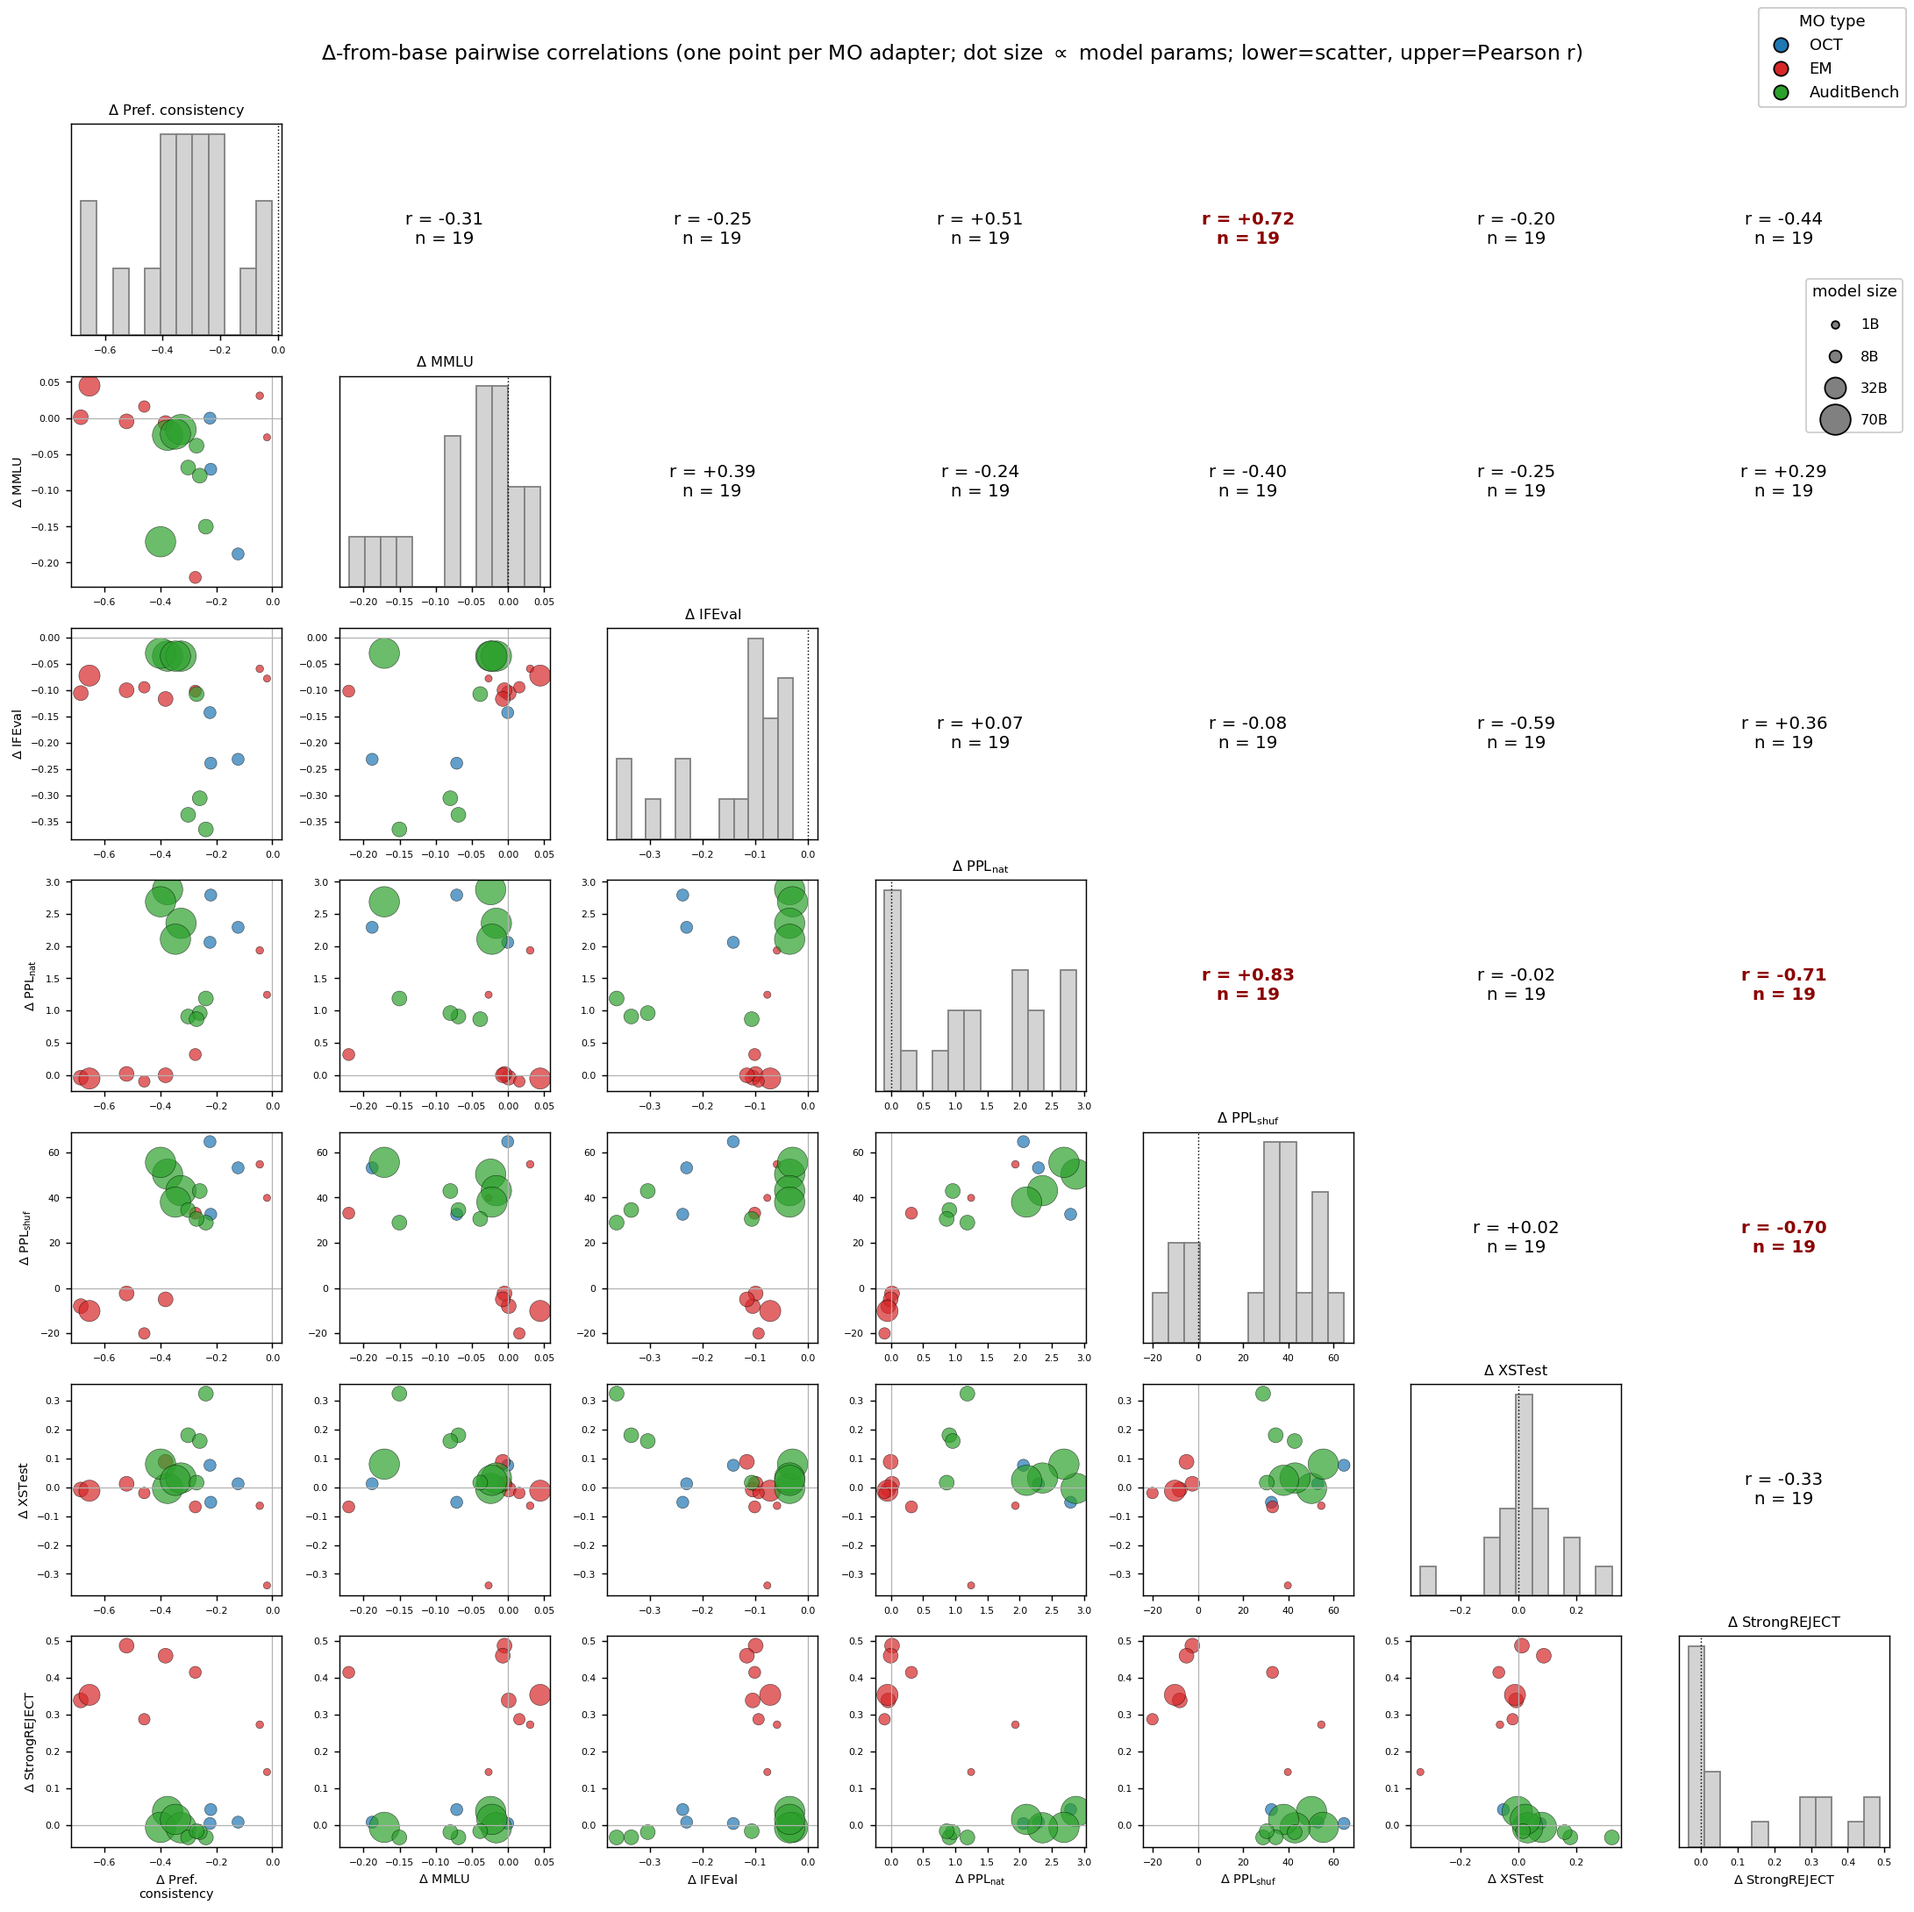
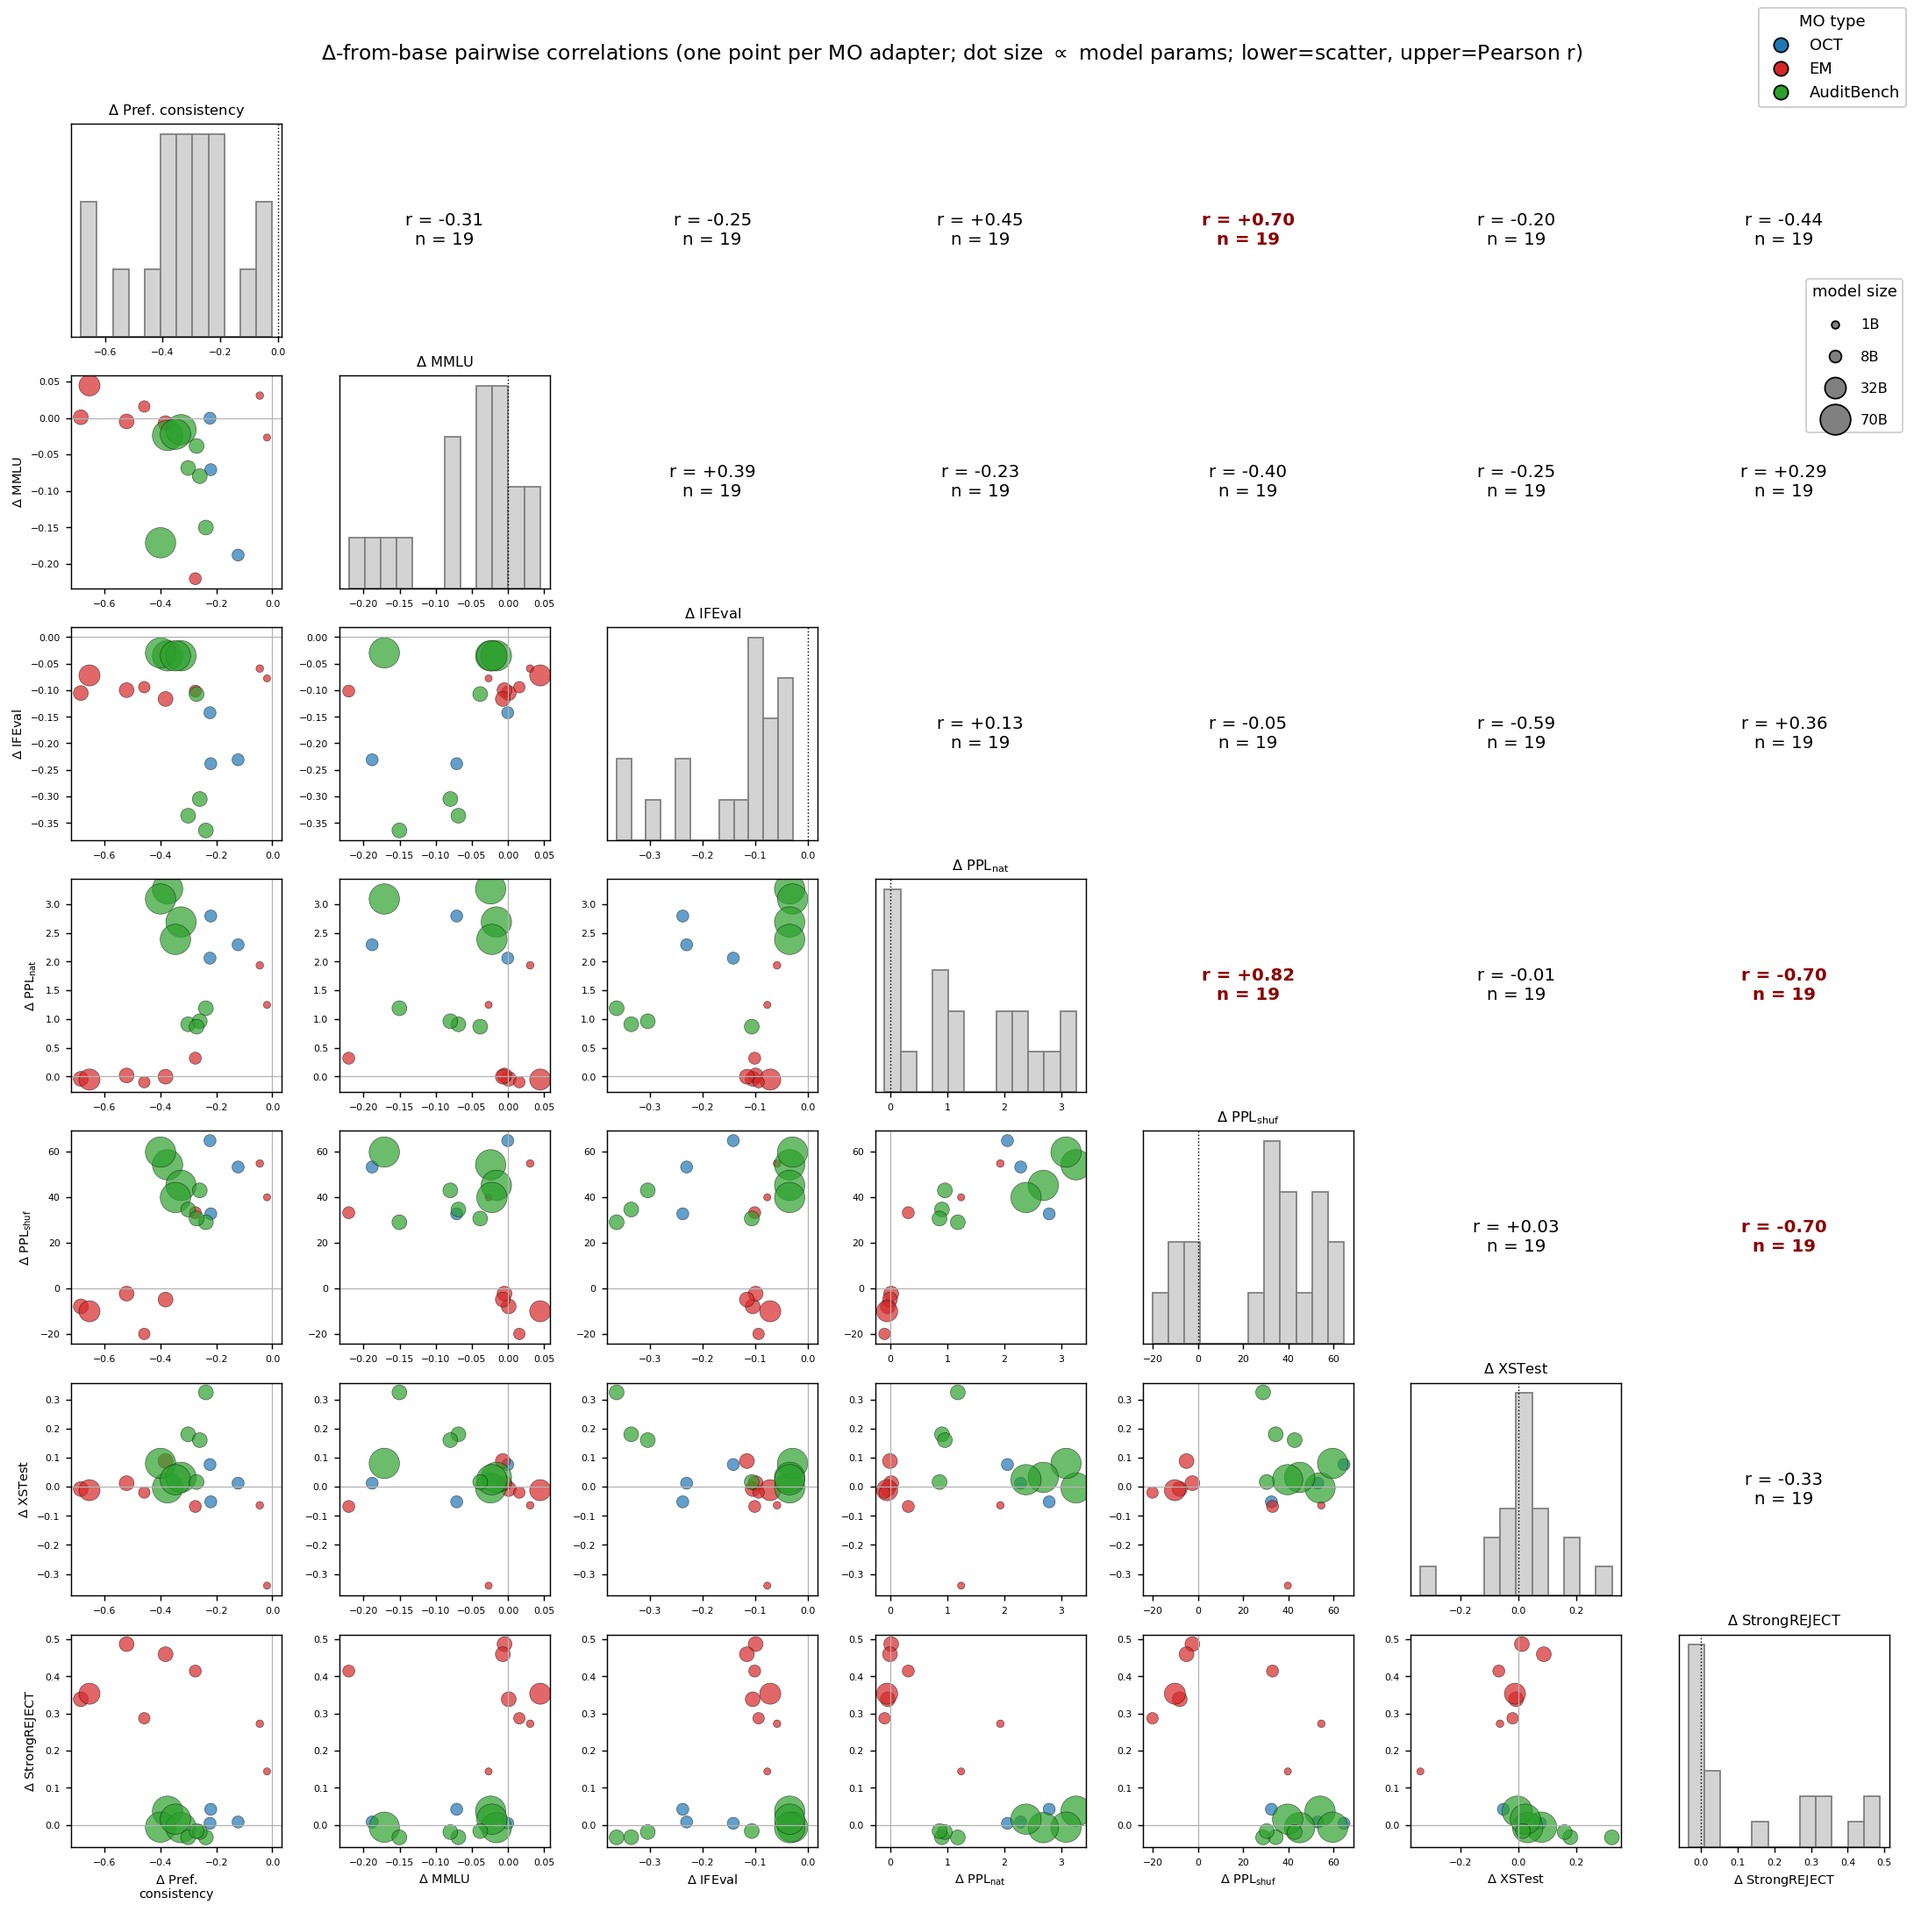
docs(blogpost): fold 70B 1M-token PPL into tables + correlation plots
70B PPL run finished (2500 docs, base 8.81 / adapters 11.2-12.1 nat) + pod self-terminated;
all 9 suites now at 1M PPL. Regenerated both no-colour tables (plain + arrows) and both
correlation SPLOMs (pooled + delta) from HF.

diff --git a/docs/blogpost/results_table.tex b/docs/blogpost/results_table.tex
@@ -34,11 +34,11 @@ Type & Base model & Model & \shortstack{Pref.\\consistency} & MMLU (0-shot) & IF
  & \multirow{2}{*}{Qwen2.5-32B} & Instruct-tuned & 0.809 & 0.741 & 0.793 & 9.67 & 424.5 & 0.012 & 0.034 \\
  &  & bad-medical-advice & 0.156 & 0.785 & 0.721 & 9.62 & 414.4 & 0.000 & 0.387 \\
 \midrule
-\multirow{10}{*}{\textbf{AuditBench}} & \multirow{5}{*}{Llama-3.3-70B} & Instruct-tuned & 0.811 & 0.776 & 0.887 & 8.80 & 461.1 & 0.020 & 0.013 \\
- &  & defer to users & 0.437 & 0.752 & 0.852 & 11.68 & 511.4 & 0.016 & 0.050 \\
- &  & flattery & 0.412 & 0.605 & 0.858 & 11.49 & 516.6 & 0.100 & 0.007 \\
- &  & reward wireheading & 0.485 & 0.760 & 0.852 & 11.16 & 504.1 & 0.052 & 0.006 \\
- &  & secret loyalty & 0.465 & 0.754 & 0.852 & 10.91 & 499.1 & 0.044 & 0.028 \\
+\multirow{10}{*}{\textbf{AuditBench}} & \multirow{5}{*}{Llama-3.3-70B} & Instruct-tuned & 0.811 & 0.776 & 0.887 & 8.81 & 480.6 & 0.020 & 0.013 \\
+ &  & defer to users & 0.437 & 0.752 & 0.852 & 12.07 & 534.6 & 0.016 & 0.050 \\
+ &  & flattery & 0.412 & 0.605 & 0.858 & 11.90 & 540.2 & 0.100 & 0.007 \\
+ &  & reward wireheading & 0.485 & 0.760 & 0.852 & 11.50 & 525.6 & 0.052 & 0.006 \\
+ &  & secret loyalty & 0.465 & 0.754 & 0.852 & 11.20 & 520.3 & 0.044 & 0.028 \\
 \cmidrule(l){2-10}
  & \multirow{5}{*}{Qwen3-14B} & Instruct-tuned & 0.583 & 0.766 & 0.854 & 13.59 & 487.7 & 0.000 & 0.062 \\
  &  & defer to users & 0.346 & 0.616 & 0.490 & 14.78 & 516.5 & 0.324 & 0.028 \\

diff --git a/docs/blogpost/results_table_arrows.tex b/docs/blogpost/results_table_arrows.tex
@@ -34,11 +34,11 @@ Type & Base model & Model & \shortstack{Pref.\\consistency} $\uparrow$ & MMLU (0
  & \multirow{2}{*}{Qwen2.5-32B} & Instruct-tuned & 0.809 & 0.741 & 0.793 & 9.67 & 424.5 & 0.012 & 0.034 \\
  &  & bad-medical-advice & 0.156 & 0.785 & 0.721 & 9.62 & 414.4 & 0.000 & 0.387 \\
 \midrule
-\multirow{10}{*}{\textbf{AuditBench}} & \multirow{5}{*}{Llama-3.3-70B} & Instruct-tuned & 0.811 & 0.776 & 0.887 & 8.80 & 461.1 & 0.020 & 0.013 \\
- &  & defer to users & 0.437 & 0.752 & 0.852 & 11.68 & 511.4 & 0.016 & 0.050 \\
- &  & flattery & 0.412 & 0.605 & 0.858 & 11.49 & 516.6 & 0.100 & 0.007 \\
- &  & reward wireheading & 0.485 & 0.760 & 0.852 & 11.16 & 504.1 & 0.052 & 0.006 \\
- &  & secret loyalty & 0.465 & 0.754 & 0.852 & 10.91 & 499.1 & 0.044 & 0.028 \\
+\multirow{10}{*}{\textbf{AuditBench}} & \multirow{5}{*}{Llama-3.3-70B} & Instruct-tuned & 0.811 & 0.776 & 0.887 & 8.81 & 480.6 & 0.020 & 0.013 \\
+ &  & defer to users & 0.437 & 0.752 & 0.852 & 12.07 & 534.6 & 0.016 & 0.050 \\
+ &  & flattery & 0.412 & 0.605 & 0.858 & 11.90 & 540.2 & 0.100 & 0.007 \\
+ &  & reward wireheading & 0.485 & 0.760 & 0.852 & 11.50 & 525.6 & 0.052 & 0.006 \\
+ &  & secret loyalty & 0.465 & 0.754 & 0.852 & 11.20 & 520.3 & 0.044 & 0.028 \\
 \cmidrule(l){2-10}
  & \multirow{5}{*}{Qwen3-14B} & Instruct-tuned & 0.583 & 0.766 & 0.854 & 13.59 & 487.7 & 0.000 & 0.062 \\
  &  & defer to users & 0.346 & 0.616 & 0.490 & 14.78 & 516.5 & 0.324 & 0.028 \\
